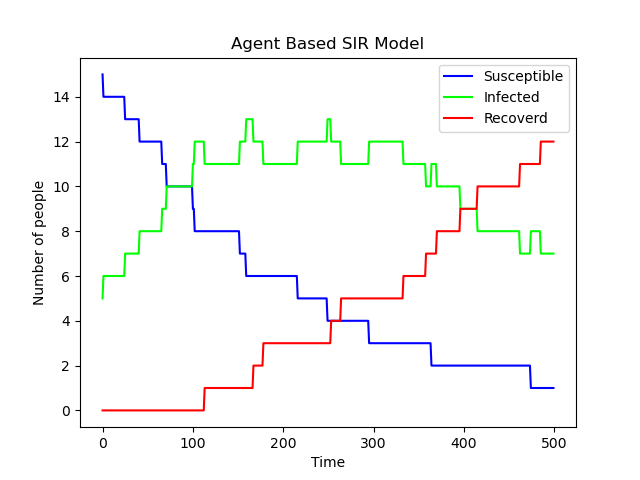
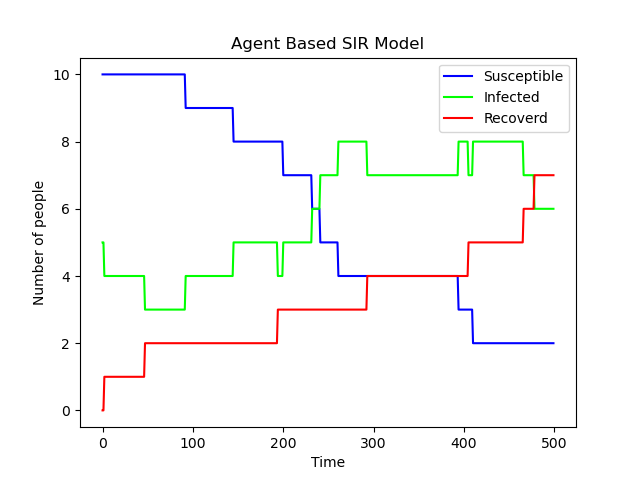
added transparency to animation

diff --git a/Agent/basic.py b/Agent/basic.py
@@ -11,15 +11,21 @@ T = 500
 
 gamma = 0.0015
 beta = 0.05
-radius = 30
-init_S = 15
+radius = 30.0
+init_S = 10
 init_I = 5
 
 WHITE = (255,255,255)
-RED = (255,0,0)
-BLUE = (0,0,255)
-GREEN = (0,255,0)
+RED = pygame.Color((255,0,0,180))
+BLUE = pygame.Color((0,0,255,180))
+GREEN = pygame.Color((0,255,0,180))
 
+
+def draw_circle_alpha(surface, color, center, radius):
+    target_rect = pygame.Rect(center, (0, 0)).inflate((radius * 2, radius * 2))
+    shape_surf = pygame.Surface(target_rect.size, pygame.SRCALPHA)
+    pygame.draw.circle(shape_surf, color, (radius, radius), radius)
+    surface.blit(shape_surf, target_rect)
 
 class Person:
 	
@@ -30,7 +36,8 @@ class Person:
 		self.dy = dy
 	
 	def draw(self):
-		pygame.draw.circle(screen, self.color, self.position, radius)
+		draw_circle_alpha(screen, self.color, self.position, radius)
+		#pygame.draw.circle(screen, self.color, self.position, radius)
 	
 		
 	def infect(self, other):
@@ -70,31 +77,33 @@ class Person:
 population = []
 
 for i in range(init_S):
-	x = random() * (width - radius*2) + 1.5*radius
-	y = random() * (height - radius*2) + 1.5*radius
-	
+	x = radius + random()*(width - 2*radius)
+	y = radius + random()*(height - 2*radius)
+
 	xspeed = (random() - 0.5)*2
 	yspeed = (random() - 0.5)*2
 	
 	population.append( Person(position=np.array([x,y]),dx=xspeed, dy=yspeed, SIR='S' ) )
 
 for i in range(init_I):
-	x = random() * (width - radius*2) + 1.5*radius
-	y = random() * (height - radius*2) + 1.5*radius
+	x = random() * (width - radius*2) + radius
+	y = random() * (height - radius*2) + radius
 	
 	xspeed = (random() - 0.5)*2
 	yspeed = (random() - 0.5)*2
 	
 	population.append( Person(position=np.array([x, y]),dx=xspeed, dy=yspeed, SIR='I' ) )
 
-screen = pygame.display.set_mode((width+10,height+10))
-screen.fill(WHITE)
-clock = pygame.time.Clock()
-
 
 Sarray = np.zeros(T)
 Iarray = np.zeros(T)
 Rarray = np.zeros(T)
+
+
+screen = pygame.display.set_mode((width,height))
+screen.fill(WHITE)
+clock = pygame.time.Clock()
+
 
 for i in range(T):
 
